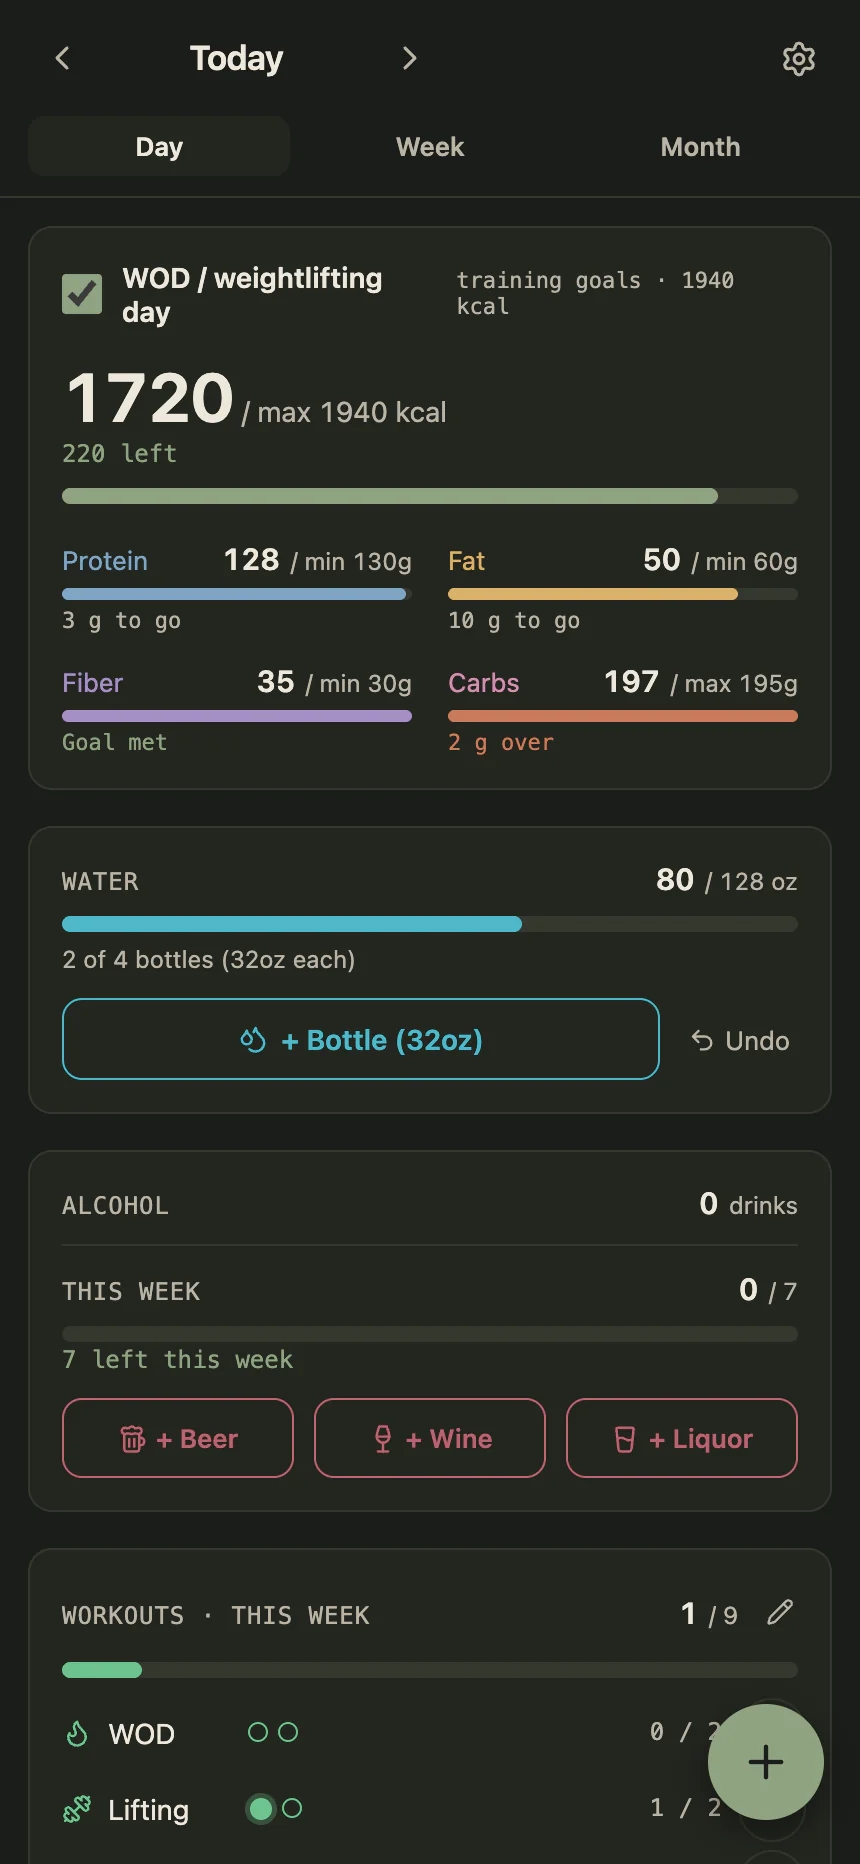
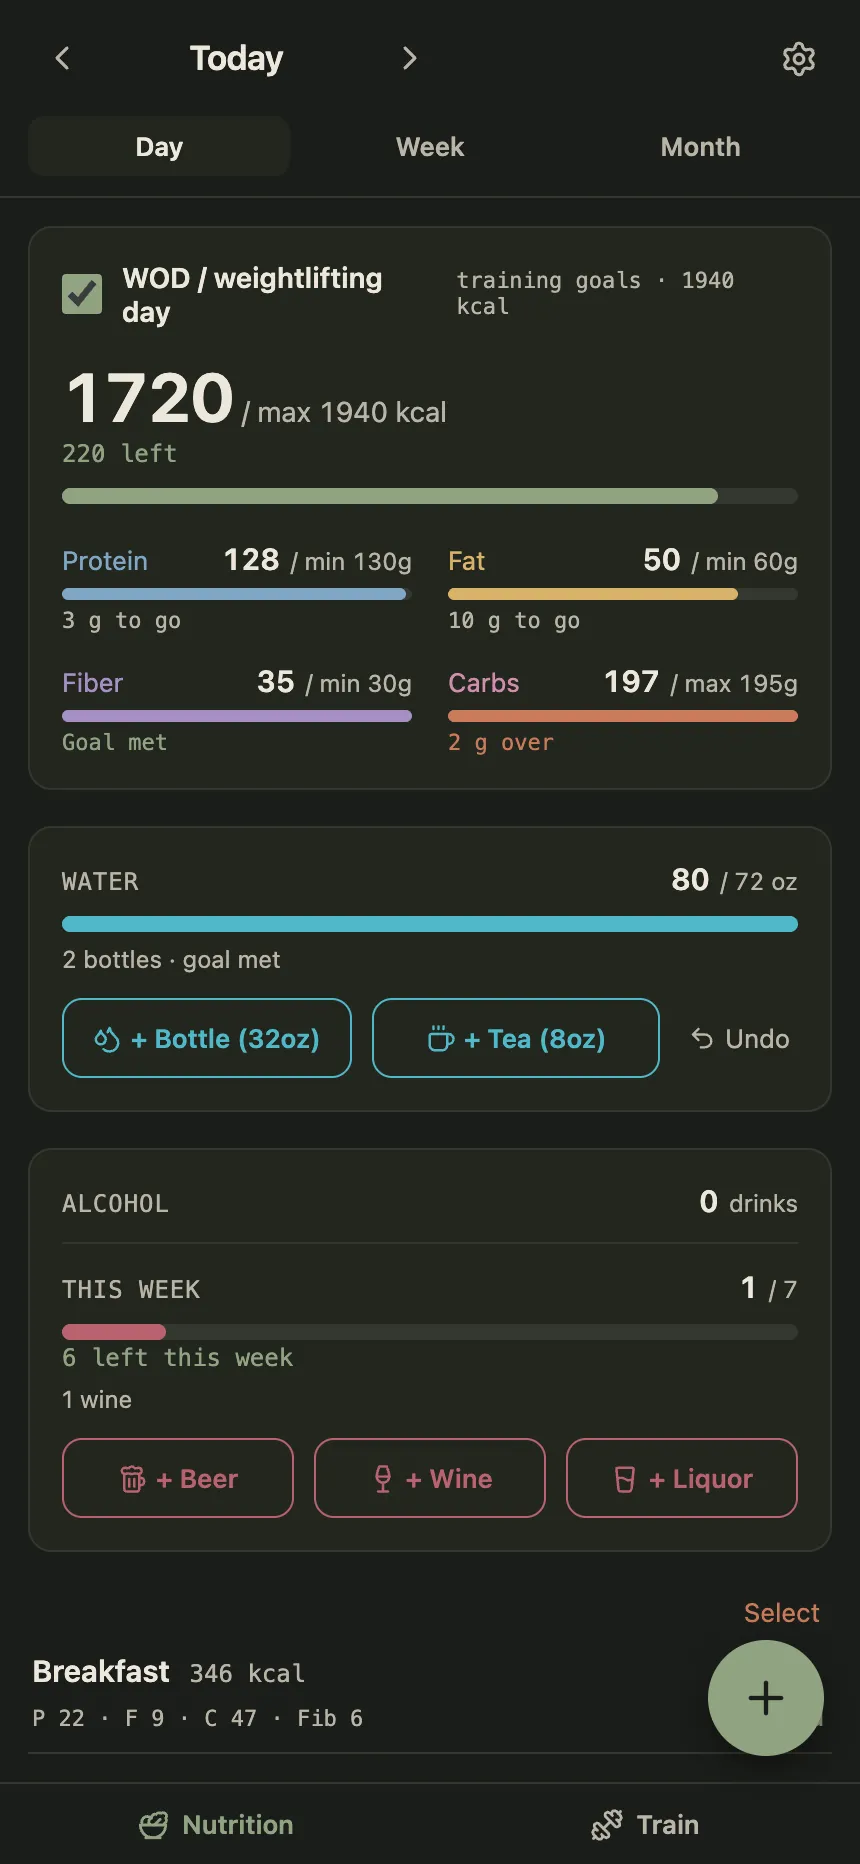
docs: Cairn's summary and screenshots for Train and the coach

diff --git a/src/data/projects.tsx b/src/data/projects.tsx
@@ -5,8 +5,8 @@ import {
   lmChatReply,
   lmChatChats,
   cairnDay,
-  cairnAdd,
-  cairnWeek,
+  cairnTrain,
+  cairnCoach,
   whetstoneDesktop,
   orreryToday,
   orreryReading,
@@ -62,9 +62,9 @@ const lmChatPhones: ProjectImageType[] = [
 ];
 const lmChatWide: ProjectImageType = desktop(lmChatDesktop, 'LM Chat on a desktop: the chat list in a sidebar beside a thread with tool calls');
 
-const cairnDayShot: ProjectImageType = phone(cairnDay, 'Cairn: a day\'s calories and macros against their goals, then water, alcohol and workouts');
-const cairnAddShot: ProjectImageType = phone(cairnAdd, 'Cairn: the Add sheet, with saved foods, a database search and a label scan');
-const cairnWeekShot: ProjectImageType = phone(cairnWeek, 'Cairn: a week of days, each against its own goal');
+const cairnDayShot: ProjectImageType = phone(cairnDay, 'Cairn: a day\'s calories and macros against their goals, then water and alcohol');
+const cairnTrainShot: ProjectImageType = phone(cairnTrain, 'Cairn: today\'s training sessions set by set, with the week\'s days above');
+const cairnCoachShot: ProjectImageType = phone(cairnCoach, 'Cairn: the coach chat, answering a question and proposing a change to the plan to apply');
 
 const whetstoneWide: ProjectImageType = desktop(whetstoneDesktop, 'Whetstone on a desktop: the problem beside the editor, with the scored review under the draft');
 
@@ -149,10 +149,10 @@ const projectDetails: ProjectDetailType[] = [
     repoLabel: 'github.com/akuttruff/cairn',
     icon: cairnIcon,
     stack: 'TypeScript, Vite, node:sqlite',
-    onDesktop: [cairnDayShot, cairnAddShot, cairnWeekShot],
-    onPhone: [cairnDayShot, cairnWeekShot],
+    onDesktop: [cairnDayShot, cairnTrainShot, cairnCoachShot],
+    onPhone: [cairnTrainShot, cairnCoachShot],
     summaryId: 'cairn-summary',
-    summary: 'Cairn is a food, water and workout log that totals calories and macros against daily goals. One Node process serves the app and keeps the log in a single SQLite file. Food search fans out to the USDA and Open Food Facts APIs. A vision model reads nutrition labels from photos, and a tool-calling model reads a restaurant\'s own page through an MCP research server. A small model writes weekly notes on how the numbers compare with the goals.',
+    summary: 'Cairn is a nutrition log and training planner with a coach. One Node process serves the app and keeps everything in a single SQLite file. Nutrition totals calories and macros against daily goals. Food search fans out to the USDA and Open Food Facts APIs, a vision model reads nutrition labels from photos, and a tool-calling model reads a restaurant\'s own page through an MCP research server. Train follows a multi-week plan, written in a documented JSON schema, set by set, with weights worked out from PRs and WODs fitted to the equipment on hand. A local model coaches in a chat, with screenshots too. It answers questions and proposes typed edits to the plan, which the server checks and previews by resolving the affected days before and after in a rolled-back transaction. Nothing changes until it is applied, and everything can be undone. The same model writes the next block from how the last one actually went.',
   }, {
     title: 'ORRERY',
     repoUrl: 'https://github.com/akuttruff/orrery',

diff --git a/src/img/index.ts b/src/img/index.ts
@@ -10,8 +10,8 @@ import lmChatThread from './projects/lm-chat-thread.webp';
 import lmChatReply from './projects/lm-chat-reply.webp';
 import lmChatChats from './projects/lm-chat-chats.webp';
 import cairnDay from './projects/cairn-day.webp';
-import cairnAdd from './projects/cairn-add.webp';
-import cairnWeek from './projects/cairn-week.webp';
+import cairnTrain from './projects/cairn-train.webp';
+import cairnCoach from './projects/cairn-coach.webp';
 import whetstoneDesktop from './projects/whetstone-desktop.webp';
 import orreryToday from './projects/orrery-today.webp';
 import orreryReading from './projects/orrery-reading.webp';
@@ -41,8 +41,8 @@ export {
   lmChatReply,
   lmChatChats,
   cairnDay,
-  cairnAdd,
-  cairnWeek,
+  cairnTrain,
+  cairnCoach,
   whetstoneDesktop,
   orreryToday,
   orreryReading,
